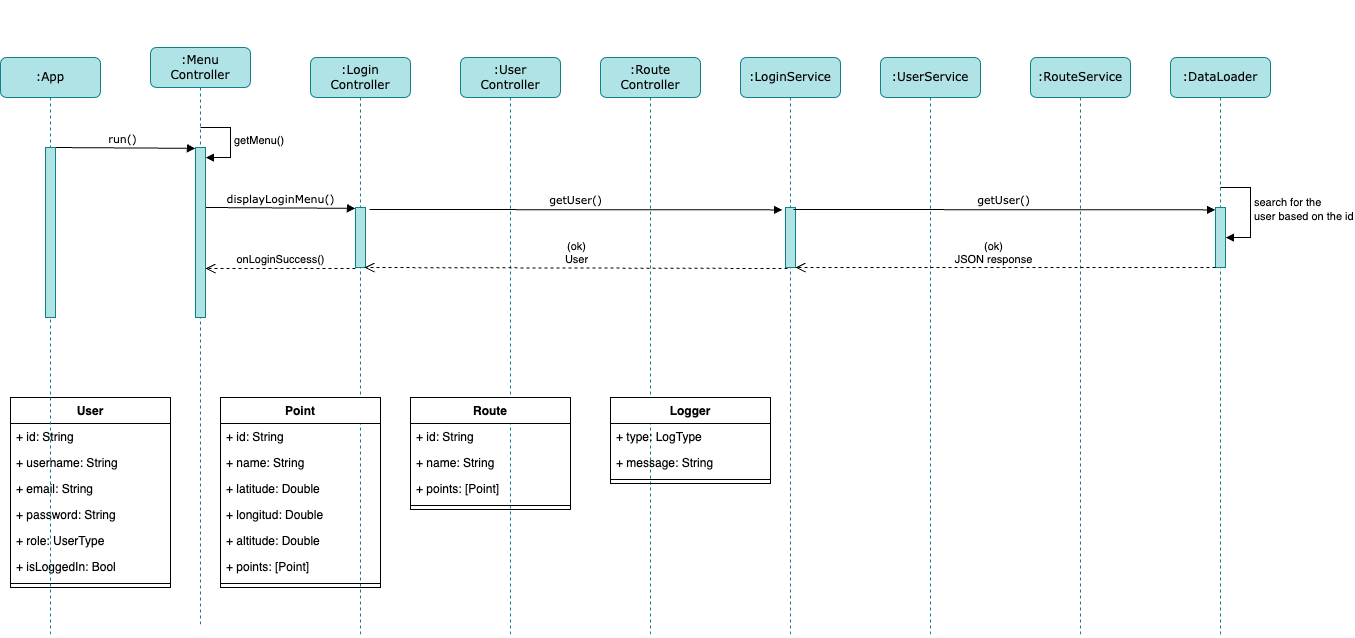
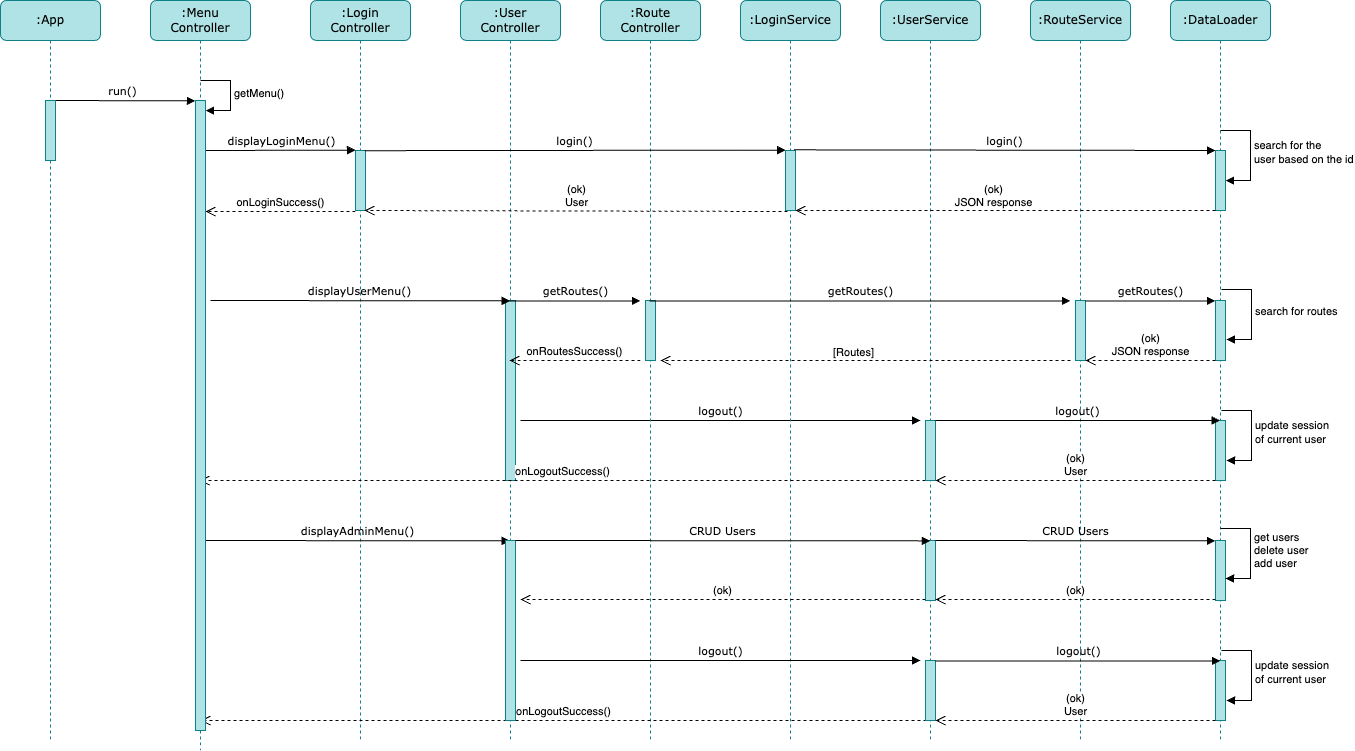
docs(snow_trails): add final read me

diff --git a/SnowTrails/SnowTrails/DataSource/Models/RouteModels.swift b/SnowTrails/SnowTrails/DataSource/Models/RouteModels.swift
@@ -28,20 +28,20 @@ struct Route: Codable {
         "\(name) - \(String(format: "%.2f", getDistance())) Km"
     }
     
-    // Calculate sum of distances using de Euclidean formula
+    // Calculate sum of distances using de Euclidean formula considering the conversion of radians to kilometers
     func getDistance() -> Double {
         guard points.count > 1 else {
             return 0
         }
         
-        var prevPoint = points[0]
-        let latToKm = 111.32 // Kms per degree of latitude
+        var prevPoint = points[0] // Considers the first item in the array as the starting point
+        let latToKm = 111.32 // 1 degree of latitude is equal to 111.32 Kms
         
         return points.dropFirst().reduce(0) {
             let lonToKm = latToKm * cos(((prevPoint.latitude + $1.latitude) / 2) * .pi / 180) // Kms per degree of longitude
             let sum = $0 + sqrt(pow(($1.latitude - prevPoint.latitude) * latToKm, 2) + pow(($1.longitude - prevPoint.longitude) * lonToKm, 2))
             prevPoint = $1
-            return sum
+            return sum // returns the sum of the distances between the previous point and the current point.
         }
     }
 }

diff --git a/SnowTrails/SnowTrails/Controllers/MenuController.swift b/SnowTrails/SnowTrails/Controllers/MenuController.swift
@@ -35,10 +35,12 @@ class MenuController: MenuControllerImplementation {
     
     // MARK: Main
     func open() {
+        // I set MenuController as delegate of these controllers to comunicate back some states
         loginController.loginControllerDelegate = self
         regularUserController.loginControllerDelegate = self
         adminController.loginControllerDelegate = self
-        menu?.getMenu(.Login)
+        
+        menu?.getMenu(.Login) // The first menu by default is the Login, which is the beginning of the app.
     }
 }
 

diff --git a/SnowTrails/SnowTrails/App.swift b/SnowTrails/SnowTrails/App.swift
@@ -10,6 +10,7 @@ import Foundation
 class App {
     private var menuController: MenuControllerImplementation
     
+    // App has the responsability of create all instances used in the app
     init() {
         let userDataLoader = UserDataLoader()
         let loginService = LoginService(userDataLoader: userDataLoader)
@@ -26,6 +27,6 @@ class App {
     }
     
     func run() {
-        menuController.open()
+        menuController.open() // The flow starts
     }
 }

diff --git a/README.md b/README.md
@@ -1,31 +1,60 @@
 # snow_trails
 
+Is an app where users can see info about routes easy and fast.
+
+## Features included
+1. **Mandatory features**
+	* Login menu
+	* Regular user menu
+		* Display routes
+		* Logout
+	* Admin menu
+		* Display users
+		* Add user
+		* Delete user
+		* Logout
+2. **Complementary features**
+	* Login Menu
+	* Admin menu
+		* Add user
+3. **Other implementation details**
+
 ## Architecture
 
-The core of **SnowTrails** is the `App` entity who starts the app and manage the dependencies used round the project.
+The core of **SnowTrails** is the `App` entity who starts the app and manage the dependencies used around the project:
 
 ```
 let app = App()
 app.run()
 ```
-Inside `App` I initialize a `MenuController` and its dependencies like `LoginController` that requires a `LoginService` and a `UserDataLoader`.
+Inside `App` I initialize a `MenuController` and its dependencies like `LoginController` that requires a `LoginService` and a `UserDataLoader`. The same aplies for the other controllers and its dependencies.
 
-I have **controllers** to interact whit the user, these controllers uses **services** to manage domain logic and comunicate with the **data loaders**. All of them are _clases_.
+The main controller is the `MenuController` that handles all menus and trigger the righ controller when is needed.
+
+Also I have **controllers** to interact whit the user, these controllers uses **services** to manage domain logic and comunicate with the **data loaders**. All of them are _clases_.
 
 ## Sequence diagram
 
-At the moment the diagram includes the **Login** flow, ignore the override them entities I wanted to put them somewhere.
+This is a general diagram that includes the **Login**, **Regular User** and **Admin User** flows:
+
 ![](Images/snow_trails_sequence.png)
 
-## Obligatory functionality
+TODO: The **Shorter route** and **Add a point to route** features are still in progress and do not appear here.
 
-✅ Login Menu
+## Entities
+![](Images/snow_trails_entities.png)
 
-I coded he Login flow using a `LoginController`, a `LoginService`, a `UserDataLoader` and a `user.json` file to host two default users: regular and admin. Throw a delegate called `LoginControllerDelegate` that implement the `MenuController` I close the login menu to start the corresponding user one. Previously I provided feedback to the user for a login sucess. Finally I configured **testing** to add a Login suite.
+## Mandatory Features
 
-😮💨 Problems everywhere
+### Login Menu
 
-When I was programming the Logout functionality, I figured out that the app's flow **had a problem**: When the user closed their session and tried to login/logout again, the **menu was broken**. The main problem as [@tecosabri](https://github.com/tecosabri) said, was that there was no more code to execute since the last option selected by the user in Login menu was `.Quit`, so the app's flow was terminated every time we open for a second time that controller. 
+I coded he **Login** flow using a `LoginController`, a `LoginService`, a `UserDataLoader` and a `users.json` file to host two default users: regular and admin. 
+
+ Throw a delegate called `LoginControllerDelegate` that implement the `MenuController` I close the login menu to start the corresponding user one. Previously I provided feedback to the user for a login sucess.
+
+😮💨 **Problems everywhere**
+
+When I was programming the **Logout** functionality, I figured out that the app's flow **had a problem**: When the user closed their session and tried to login/logout again, the **menu was broken**. The main problem as [@tecosabri](https://github.com/tecosabri) said, was that there was no more code to execute since the last option selected by the user in Login menu was `.Quit`, so the app's flow was terminated every time we open for a second time that controller. 
 
 The first thing I realized was I needed to reset the data of `LoginController` before evaluating again. I applied this solution:  [7e8e576](https://github.com/anagumo/snow_trails/commit/7e8e5765e2f052c47239cb5469f57562f379acad) and [c79dc70](https://github.com/anagumo/snow_trails/commit/c79dc708c8cbed3ef1b2acc6ff014309ffabd3a6) for `RegularUserController` too, and it worked. Also, I attached the validation to the user sesion insted to the selected option to have better control over the app's flow.
 
@@ -33,10 +62,77 @@ The first thing I realized was I needed to reset the data of `LoginController` b
 |--------|------|
 | <img src="Images/flow_issue.png" width="300"/>  | <img src="Images/flow_fixed.png" width="250"/> |
 
+### User Menus
+**Regular** and **Admin** controllers shares a protocol called `UserControllerImplementation` that has a main method to start the flow throw the `MenuController` and exposes the `LoginControllerDelegate` to communicate back when user session is closed.
 
-## Complementary functionality
+Aditionally to the `UserService` that is used to **Logout** and **CRUD** users, the `RegularUserController` has a new controller called `RoutesController` to display routes.
 
-✅ Login Menu
+### Routes Menu
+This is a basic controller that has the sole responsibility of displaying routes. The difficulty here was calculating the sum of distances of each route based on the latitude and longitude of its points.
+
+To acompish that I used the **Euclidean** formula to start calculating the distance beteween two points considering the conversion of radians to kilometers: **1 degree of latitude = 111.32 km**
+
+The algorithm also considers the first item of an array as the starting point, then removes that first item and applies a `reduce()` function to sum the distances between the previous point and the current point. That way, I can sum the distances of more than two points.
+
+🔥 **Comparison with Haversine Formula**
+
+In researching which formula to use, I found the Haversine formula, which, according to the web, calculates the great-circle distance between two points on a sphere given their latitude and longitude. I tested it, but it returned incorrect data. So, I kept the Euclidean formula since it is useful for small-scale and local calculations.
+
+## Complementary features
+
+### Regex linter
+In the past, I used to copy and paste other people’s regex patterns to validate user inputs like email and password. However, I didn’t want to keep relying on recipes, so I researched to understand each element of a pattern. That’s how I learned some on RegexOne [RegexOne](https://regexone.com/) and I tested my patterns on [Regexr](https://regexr.com/).
+
+✉ **The Email pattern**: 
+
+`^[A-Za-z0-9]+@[a-zA-Z]+\.[es|com]{2,3}$`
+
+🪪 **The username pattern**:
+
+ `^[\w]{8,24}$`
+
+Then I coded a `RegexLint` with a `RegexLintDelegate` to validate inputs in **Login** and **Admin** controllers.
+
+### Handling errors
+I grouped all the app errors into an enum called `AppError`. It has two initializers to create instances from an `Error` or a `RegexPattern`. These errors are triggered using `throws` functions, `onError` closures, or both:
+
+**RegexLint**
+
+```
+func validate(data: String, matchWith regexPattern: RegexPattern) throws {
+	let regex = try Regex(regexPattern.rawValue)
+	guard data.contains(regex) else {
+		throw AppError(from: regexPattern)
+}
+```
+
+**Service**
+
+```
+func validate(text: String, regexPattern: RegexPattern, onSuccess: (String) -> (), onError: (AppError) -> ()) {
+	do {
+		try RegexLint.validate(data: text, matchWith: regexPattern)
+		onSuccess(text)
+	} catch let error as AppError {
+		return onError(error)
+	} catch {
+		return onError(AppError.unknown)
+	}
+}
+```
+
+**Controller**
+
+```
+loginService.validate(text: emailInput, regexPattern: .email) {
+	emailInput = $0
+} onError: { appError in
+	emailInput.removeAll()
+	Logger.userLog.error("\(appError.errorDescription)")
+}
+```
+
+### User Role
 I coded an option to get the user role using a `UserType`, this enum is created when the `users.json` file is decoded to a `User` entity:
 
 ```
@@ -60,6 +156,68 @@ enum UserType: String, Codable {
     }
 }
 ```
-Also I manage the `getUser` response using an `onSuccess` and `onError` closure. Finally the feedback when the login is success includes if is a **regular** or **admin** user.
 
-Continue...
+When the login is success includes if is a **regular** or **admin** user, that way I created a `getRole()` function to get the user rol.
+
+## Other implementation details
+As part of this section, I created an extension of Logger to log both developer and user logs instead of using prints. I also implemented the architecture as the teacher described.
+
+
+## Testing
+The project has a coverage of 100% adding 4 suites: 
+
+* **Login**: Login error and success tests
+* **Routes**: Routes count, distances with 0 Kms, more that 0 Kms and the full description tests
+* **Users**: Logout and CRUD users tests
+* **User Inputs**: Bad/cool username and email tests
+
+```
+◇ Test run started.
+↳ Testing Library Version: 102 (arm64e-apple-macos13.0)
+◇ Suite "Routes" started.
+◇ Suite "User Input" started.
+◇ Suite "Login" started.
+◇ Suite "Users" started.
+◇ Test getDistanceEqualToZero() started.
+◇ Test getDistanceGreaterThanZero() started.
+◇ Test getRouteDescription() started.
+◇ Test getUsers() started.
+◇ Test addUserSuccess() started.
+◇ Test deleteUserError() started.
+◇ Test getRoutesCount() started.
+◇ Test loginError() started.
+◇ Test logoutSuccess() started.
+◇ Test emailSuccess() started.
+◇ Test loginSuccess() started.
+◇ Test usernameError() started.
+◇ Test usernameSuccess() started.
+◇ Test deleteUserSuccess() started.
+◇ Test emailError() started.
+✔ Test getUsers() passed after 0.001 seconds.
+✔ Test deleteUserError() passed after 0.001 seconds.
+✔ Test getRouteDescription() passed after 0.001 seconds.
+✔ Test getDistanceEqualToZero() passed after 0.001 seconds.
+✔ Test getRoutesCount() passed after 0.001 seconds.
+✔ Test loginError() passed after 0.001 seconds.
+✔ Test getDistanceGreaterThanZero() passed after 0.001 seconds.
+✔ Test logoutSuccess() passed after 0.001 seconds.
+✔ Test loginSuccess() passed after 0.001 seconds.
+✔ Test deleteUserSuccess() passed after 0.001 seconds.
+✔ Test addUserSuccess() passed after 0.001 seconds.
+✔ Suite "Login" passed after 0.001 seconds.
+✔ Suite "Routes" passed after 0.001 seconds.
+✔ Test usernameSuccess() passed after 0.001 seconds.
+✔ Suite "Users" passed after 0.001 seconds.
+✔ Test emailSuccess() passed after 0.001 seconds.
+✔ Test emailError() passed after 0.001 seconds.
+✔ Test usernameError() passed after 0.001 seconds.
+✔ Suite "User Input" passed after 0.008 seconds.
+✔ Test run with 15 tests passed after 0.008 seconds.
+Program ended with exit code: 0
+```
+
+## Final
+
+I want to say thanks to my **classmates** for everything we shared in and out of class and to  **Isma** |  [@tecosabri](https://github.com/tecosabri) for teaching us. I used to rely on recipes, but after this module, I'm able to create my own code. He was always there, even to answer all my questions about menu issues, delegates, dependency injection, regexs, responsibilities, etc.
+
+💪🏻 Thanks, profe.
